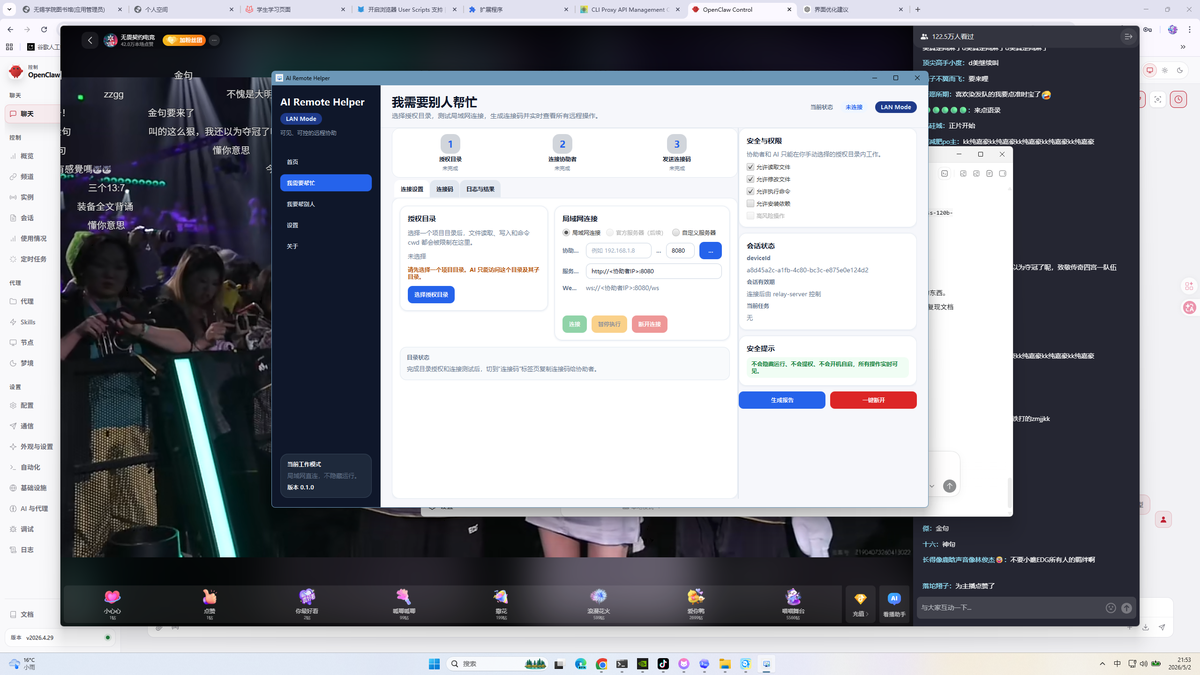
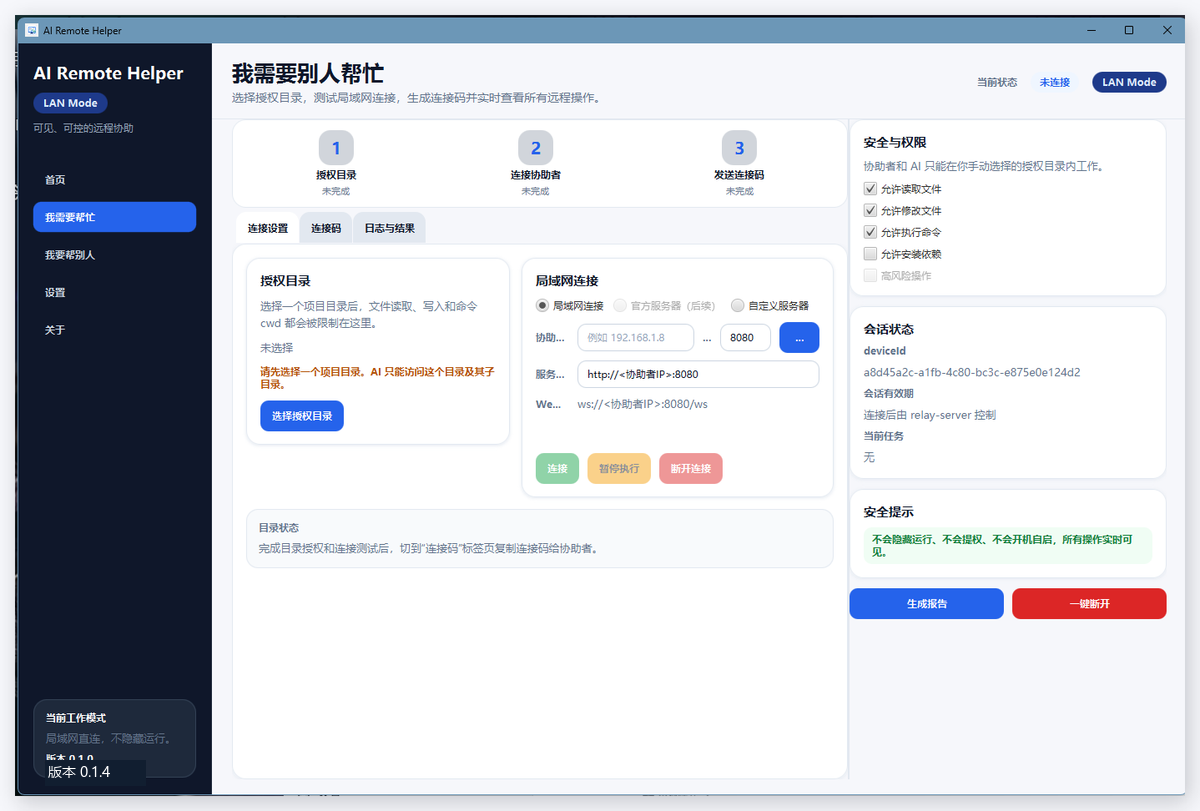
Fix README screenshots and add Chinese guide

diff --git a/README.zh-CN.md b/README.zh-CN.md
@@ -1,0 +1,139 @@
+# AI Remote Helper
+
+[English](README.md) | [下载最新版 Windows LAN 包](https://github.com/fanhualuoxianting/ai-remote-helper/releases/latest)
+
+<p align="center">
+  <img src="docs/assets/airh-demo.png" width="880" alt="AI Remote Helper 桌面端演示" />
+</p>
+
+AI Remote Helper 是一个面向 AI Coding 场景的“可见、授权式远程开发协助平台”。被协助方必须主动选择授权目录并保持桌面客户端可见；协助方或 AI 工具只能在这个授权目录内执行文件读取、写入、命令执行和日志查看。
+
+它不是隐藏远控工具，不做静默运行、不开机自启、不提权、不接管鼠标键盘，也不会绕过授权目录。
+
+## 项目亮点
+
+- JavaFX 桌面客户端：用于被协助方授权目录、生成连接码、查看日志和随时断开。
+- Spring Boot Relay Server：负责会话、WebSocket 任务转发、任务状态、日志和审计记录。
+- MCP Bridge：为 OpenClaw 等 AI 工具提供标准 MCP/SSE 接入入口。
+- 安全沙箱：限制路径穿越、敏感文件、危险命令和越权目录访问。
+- AI 协助流程：被协助方提交自然语言需求，协助方审核后启动可见 Codex/OpenClaw 会话。
+- Windows LAN 打包：提供可分发的 Windows app-image zip 包。
+
+## 架构图
+
+<p align="center">
+  <img src="docs/assets/architecture.png" width="880" alt="AI Remote Helper 架构图" />
+</p>
+
+| 模块 | 作用 |
+| --- | --- |
+| `agent-client` | JavaFX 桌面端，负责授权、连接、任务执行和日志展示。 |
+| `relay-server` | Spring Boot 中继服务，负责在线设备、会话、任务、审计和 WebSocket 路由。 |
+| `mcp-bridge` | MCP 协议桥接层，让 AI 工具通过 relay 操作远程授权目录。 |
+| `common-protocol` | 共享 DTO、枚举和消息协议。 |
+| `common-safety` | 路径沙箱、敏感文件保护和命令风险检测。 |
+| `web-console` | Vue Web Console 原型，用于后续设备、日志、审计展示。 |
+
+## 桌面工作流
+
+| 被协助方客户端 | 协助方工作台 |
+| --- | --- |
+| <img src="docs/assets/agent-client.png" width="420" alt="被协助方客户端" /> | <img src="docs/assets/helper-review.png" width="420" alt="协助方工作台" /> |
+
+## 3 分钟本地演示
+
+```powershell
+git clone https://github.com/fanhualuoxianting/ai-remote-helper.git
+cd ai-remote-helper
+
+docker compose up -d
+mvn clean package
+scripts\start-relay-lan.bat
+mvn -f agent-client/pom.xml javafx:run
+```
+
+演示流程：
+
+1. 被协助方选择一个项目目录作为授权工作区。
+2. 协助方输入连接码并连接远程会话。
+3. 被协助方提交自然语言需求。
+4. 协助方审核需求并批准。
+5. Codex 或 OpenClaw 生成 JSON 任务。
+6. Agent 只在授权目录内执行读文件、写文件或命令。
+7. 日志、结果和报告回传到可见界面。
+
+## 基本使用
+
+被协助方：
+
+1. 启动客户端。
+2. 选择 `我需要别人帮忙`。
+3. 选择授权项目目录。
+4. 输入协助方的局域网 IP 和 relay 端口。
+5. 测试连接并生成连接码。
+6. 可选：在 `提交需求` 中描述要解决的问题。
+7. 全程观察日志和结果，必要时随时断开。
+
+协助方：
+
+1. 启动 relay，Windows LAN 演示推荐：
+
+```powershell
+scripts\start-relay-lan.bat
+```
+
+2. 启动客户端并选择 `我要帮别人处理项目`。
+3. 输入对方连接码。
+4. 点击 `一键链路自检`，确认目录读取、任务下发和结果回传正常。
+5. 在 `需求审核` 中批准需求，启动可见 AI Runner。
+6. 在 `AI 协助` 中执行 AI 写入队列的下一条任务。
+
+## 安全边界
+
+AI Remote Helper 明确不实现以下能力：
+
+- 不隐藏客户端窗口。
+- 不开机自启。
+- 不安装系统服务。
+- 不默认请求管理员权限。
+- 不绕过授权目录。
+- 不接管鼠标或键盘。
+- 不关闭防火墙或安全软件。
+- 不读取浏览器数据、SSH 私钥或系统凭据。
+
+更多安全说明见 [SECURITY.md](SECURITY.md)。
+
+## Windows LAN 打包
+
+```powershell
+agent-client\scripts\package-lan-windows.bat -Offline
+```
+
+生成目录：
+
+```text
+dist/AI-Remote-Helper-LAN/
+```
+
+发布 zip 不提交到 Git，推荐上传到 GitHub Release。
+
+## 常见问题
+
+- 连接不上：确认两台电脑在同一局域网，并检查协助方 Windows 防火墙是否放行 relay 端口。
+- 任务一直运行：`v0.1.4` 起 relay 会自动把超时任务标记为 `TIMEOUT`。
+- 对方掉线：协助方界面会显示远程设备离线，需要对方重新连接并提供新连接码。
+- 中文乱码：Windows 默认按 GBK 解码命令输出；如远端程序输出 UTF-8，可设置：
+
+```powershell
+$env:AIRH_COMMAND_OUTPUT_CHARSET='UTF-8'
+```
+
+## 当前版本
+
+最新公开版本：`v0.1.4`
+
+Release 下载：[https://github.com/fanhualuoxianting/ai-remote-helper/releases/latest](https://github.com/fanhualuoxianting/ai-remote-helper/releases/latest)
+
+## 许可证
+
+MIT。见 [LICENSE](LICENSE)。

diff --git a/README.md b/README.md
@@ -1,5 +1,7 @@
 # AI Remote Helper
 
+[中文说明](README.zh-CN.md) | [Download latest Windows LAN release](https://github.com/fanhualuoxianting/ai-remote-helper/releases/latest)
+
 <p align="center">
   <img src="docs/assets/airh-demo.png" width="880" alt="AI Remote Helper desktop demo" />
 </p>
